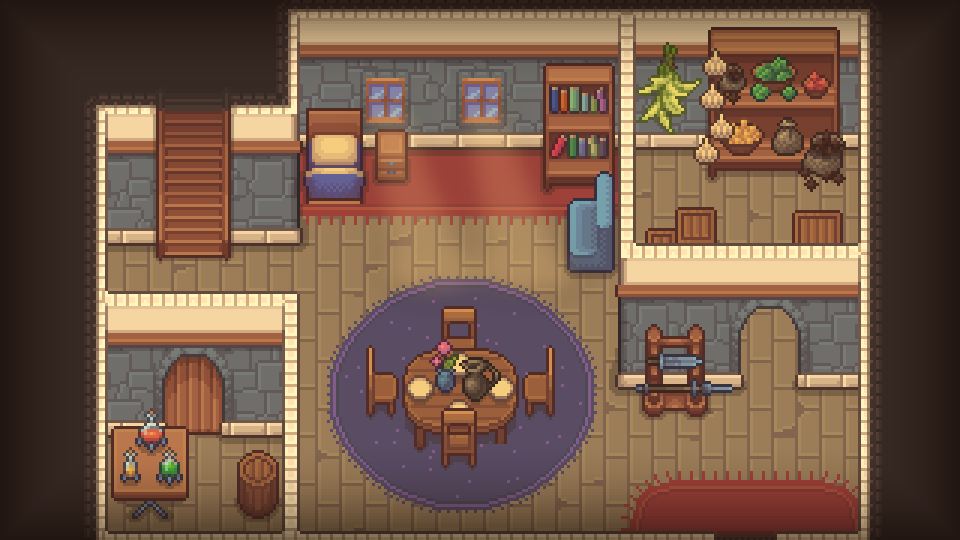
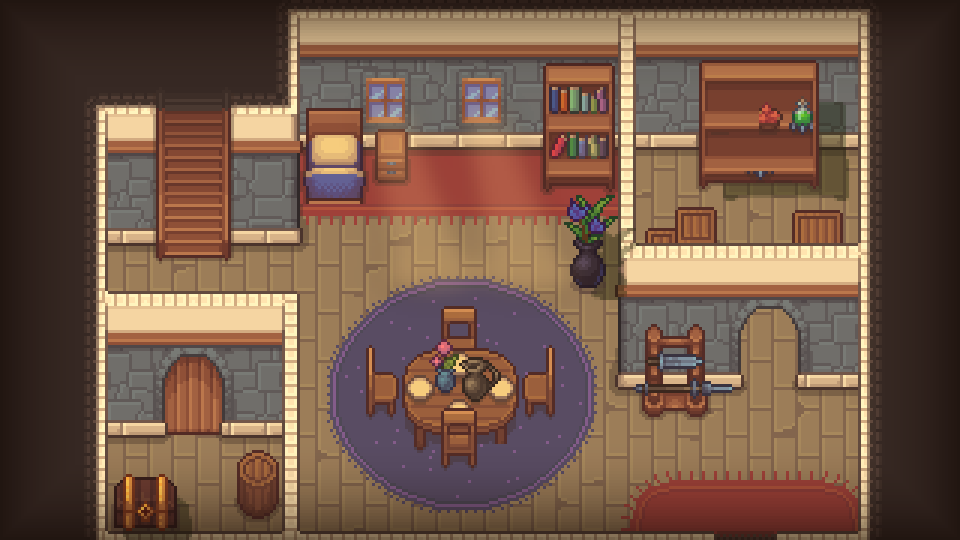
Room: removed floating garlic/herbs, armchair, potion table, clutter; kitchen shelf; Max as a child

Changed region(s): [[0.6562, 0.0296, 0.9062, 0.3852], [0.0938, 0.7704, 0.2188, 1.0], [0.5625, 0.2963, 0.6562, 0.563]]

diff --git a/docs/main.js b/docs/main.js
@@ -8,7 +8,7 @@ function fit() { const s = Math.min(innerWidth / W, innerHeight / H); const st =
 addEventListener('resize', fit); fit();
 function setCoins(n) { state.coins = n; store.set(state); $('coins').textContent = n; }
 function toast(t, ms = 1500) { const e = $('toast'); e.textContent = t; e.style.display = 'block'; clearTimeout(toast.t); toast.t = setTimeout(() => e.style.display = 'none', ms); }
-function setPortraits(heroE, npcE, heroActive) { const L = $('pL'), R = $('pR'); L.src = 'assets_v3/portraits/hero_' + heroE + '.png'; R.src = 'assets_v3/portraits/schmidt_' + npcE + '.png'; L.style.opacity = heroActive ? 1 : .55; R.style.opacity = heroActive ? .55 : 1; }
+function setPortraits(heroE, npcE, heroActive) { const L = $('pL'), R = $('pR'); L.style.display = 'none'; /* TODO child portrait */ R.src = 'assets_v3/portraits/schmidt_' + npcE + '.png'; L.style.opacity = heroActive ? 1 : .55; R.style.opacity = heroActive ? .55 : 1; }
 function speakDE(text) { try { const u = new SpeechSynthesisUtterance(text); u.lang = 'de-DE'; speechSynthesis.cancel(); speechSynthesis.speak(u); } catch (e) {} }
 const audioEl = new Audio();
 function playLine(l) { if (l.audio) { audioEl.src = 'audio/' + l.audio; audioEl.play().catch(() => speakDE(l.de)); } else speakDE(l.de); }

diff --git a/design-doc/art-rules.md b/design-doc/art-rules.md
@@ -22,3 +22,7 @@
 
 ## Проверка
 Кадр «было | стало» + проход по этому списку перед словом «готово».
+
+## Добавлено 23.11 11:00
+13. Не оставлять висящие без опоры вещи и предметы, приставленные к краю стены (бочки и мешки на кромке перегородки).
+14. Max в главе A1 — ребёнок (по сюжету): спрайт и портрет детские.
